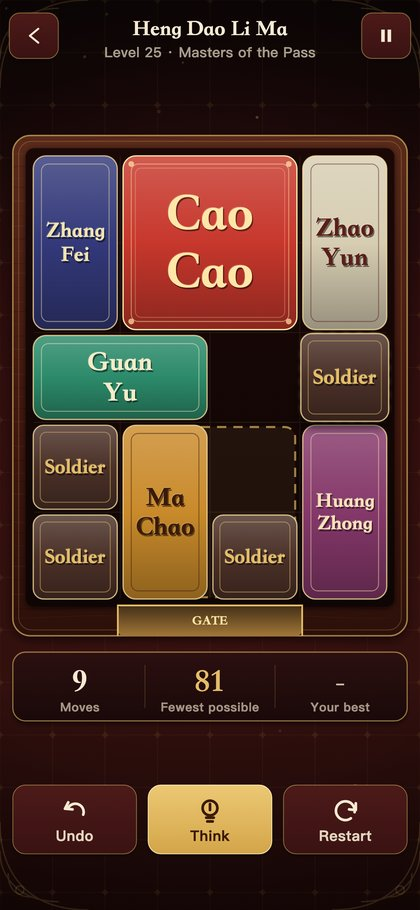
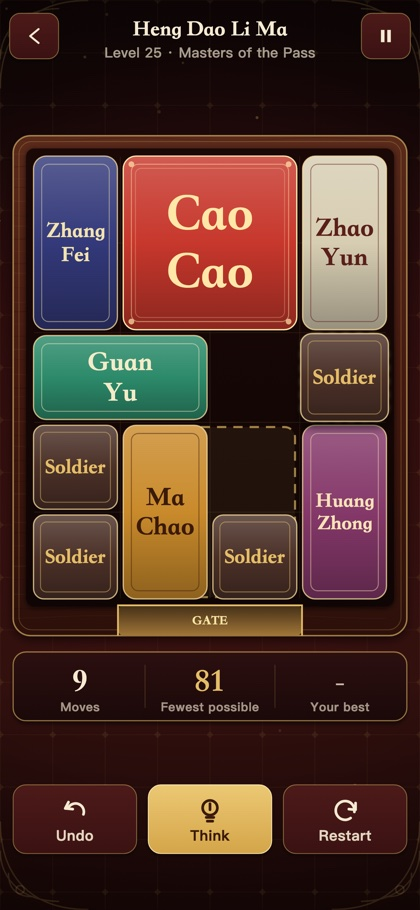
Huarong Dao 1.0.2: flat English block names in preview and screenshots

diff --git a/games/huarong-dao-sliding-puzzle/play/game/src/art.js b/games/huarong-dao-sliding-puzzle/play/game/src/art.js
@@ -219,13 +219,14 @@ export function drawBlock(ctx, r, p, o = {}) {
     for (const [cx, cy] of [[x + ins, y + ins], [x + w - ins, y + ins], [x + ins, y + h - ins], [x + w - ins, y + h - ins]]) { ctx.beginPath(); ctx.arc(cx, cy, 5, 0, Math.PI * 2); ctx.fill(); }
   }
   const cx = x + w / 2, cy = y + h / 2;
+  const flat = (str, tx, ty, size, font, weight) => text(ctx, str, tx, ty, size, col.ink, { font, weight });
   const engrave = (str, tx, ty, size, font, weight) => {
     text(ctx, str, tx + 2, ty + 3, size, 'rgba(0,0,0,0.5)', { font, weight });
     text(ctx, str, tx - 1, ty - 1, size, 'rgba(255,255,255,0.18)', { font, weight });
     text(ctx, str, tx, ty, size, col.ink, { font, weight });
   };
   if (BLOCK_LANG === 'en') {
-    // engraved English names, one word per line, fitted to the block's inner frame
+    // English names: one flat, crisp pass (no shadow or highlight copy), one word per line, fitted to the block's inner frame
     const words = (p.name.en ?? p.name.zh).split(' ');
     const lines = p.t === 'C' ? words : words.length > 1 ? words : [words[0]];
     const availW = w - (ins + 8) * 2, availH = h - (ins + 6) * 2;
@@ -234,7 +235,7 @@ export function drawBlock(ctx, r, p, o = {}) {
     const cap = p.t === 'C' ? 92 : p.t === 'S' ? 40 : p.t === 'V' ? 62 : 56;
     const size = Math.min(cap, availW / widest, availH / (lines.length * 1.08));
     const lh = size * 1.08;
-    lines.forEach((l, i) => engrave(l, cx, cy + (i - (lines.length - 1) / 2) * lh + size * 0.34, size, DISPLAY, 900));
+    lines.forEach((l, i) => flat(l, cx, cy + (i - (lines.length - 1) / 2) * lh + size * 0.34, size, DISPLAY, 900));
   } else {
     const chars = [...p.name.zh];
     let size, pos;
